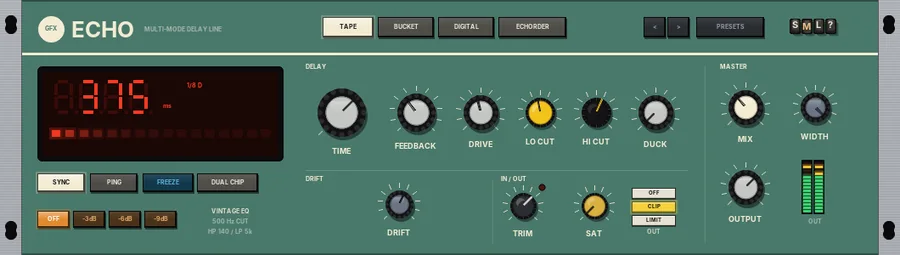
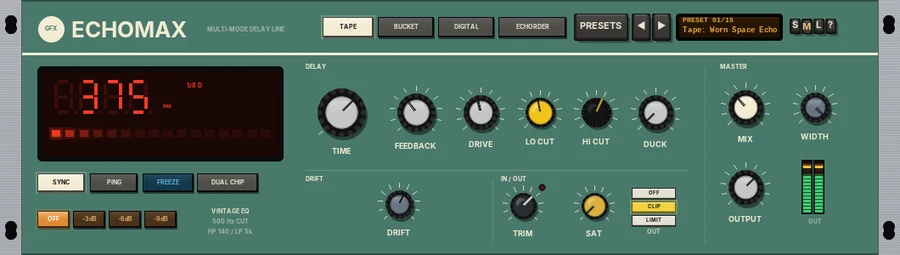
Remove G Piano and Palette; TransEQ and Echomax panel images updated (count 90)
Claude-Session: https://claude.ai/code/session_01Ax5XYCMR9hcQaUir82PTWy

Changed region(s): [[0.6222, 0.0275, 0.8711, 0.1922], [0.1244, 0.0824, 0.3111, 0.1647], [0.9022, 0.6588, 0.9333, 0.6863]]

diff --git a/glance/instruments.html b/glance/instruments.html
@@ -29,5 +29,5 @@ footer{border-top:1px solid var(--line);margin-top:40px;padding:24px 0 40px;colo
 </style></head><body>
 <header class="top"><div class="wrap"><span class="badge">GFX</span><a class="home" href="../index.html">GFX</a>
 <nav><a href="index.html">At a glance</a><a href="../manual/index.html">Manuals</a><a href="../index.html#range">The range</a><a href="../index.html#install">Install</a></nav></div></header>
-<main class="wrap"><h1>Instruments at a glance</h1><p class="lead">Synths, organs, pianos and string machines. Every sound is synthesised - nothing to load. Click a plug-in for its manual or panel.</p><div class="cats"><a href="instruments.html" class=on>Instruments</a><a href="drum-machines.html">Drum machines</a><a href="amps.html">Amps &amp; drive</a><a href="dynamics.html">Dynamics</a><a href="eq.html">EQ &amp; filters</a><a href="modulation.html">Modulation &amp; space</a><a href="mastering.html">Mastering</a><a href="summing.html">Summing</a></div><table class="tbl"><thead><tr><th>Plug-in</th><th>In the spirit of</th><th>Main features</th><th>Best for</th></tr></thead><tbody><tr><td class="n"><a href="../img/gfx-g-lab80.webp"><img src="../img/gfx-g-lab80.webp" alt="G Lab80" loading="lazy"><b>G Lab80</b><span>Panel</span></a></td><td>Late-80s digital workstation</td><td><ul><li>43 sounds: FM pianos, clav, organs, strings, brass, pads</li><li>Macro controls per sound</li><li>Built-in reverb and chorus</li></ul></td><td>Quick, characterful keys and pads</td></tr><tr><td class="n"><a href="../img/gfx-g-lead-8.webp"><img src="../img/gfx-g-lead-8.webp" alt="G Lead 8" loading="lazy"><b>G Lead 8</b><span>Panel</span></a></td><td>80s analogue polysynth</td><td><ul><li>2 oscillators per voice, 24 dB ladder filter</li><li>Filter and amp envelopes, LFO</li><li>Built-in arpeggiator</li></ul></td><td>Leads, chords and arpeggios</td></tr><tr><td class="n"><a href="../img/gfx-g-bass-1x.webp"><img src="../img/gfx-g-bass-1x.webp" alt="G Bass 1X" loading="lazy"><b>G Bass 1X</b><span>Panel</span></a></td><td>Classic monosynth basses</td><td><ul><li>Saw / pulse with PWM, sub oscillator, unison</li><li>Ladder, acid and 12 dB filters</li><li>Accent and glide</li></ul></td><td>Bass lines from warm to acid</td></tr><tr><td class="n"><a href="../img/gfx-g-cosmos.webp"><img src="../img/gfx-g-cosmos.webp" alt="G Cosmos" loading="lazy"><b>G Cosmos</b><span>Panel</span></a></td><td>80s eight-voice polys</td><td><ul><li>DCO with a detuned shimmer layer</li><li>24 dB filter with its own envelope</li><li>Bucket-brigade chorus, ambient delay</li></ul></td><td>Lush pads and strings</td></tr><tr><td class="n"><a href="../img/gfx-g-glow.webp"><img src="../img/gfx-g-glow.webp" alt="G Glow" loading="lazy"><b>G Glow</b><span>Panel</span></a></td><td>Early-80s micro-computer additive synths</td><td><ul><li>Draw 16 / 32 / 64 harmonic partials per path</li><li>Two paths, clean or vintage 8-bit</li><li>Cross-modulation, LFOs, dual delay</li></ul></td><td>Glassy digital tones and bells</td></tr><tr><td class="n"><a href="../img/gfx-g-chip.webp"><img src="../img/gfx-g-chip.webp" alt="G Chip 48" loading="lazy"><b>G Chip 48</b><span>Panel</span></a></td><td>8-bit home computer and console sound chips</td><td><ul><li>Five chips: beeper, AY, PSG, FM, console pulse / triangle</li><li>41 patches</li><li>Tracker-style arps</li></ul></td><td>Chiptune and retro game sounds</td></tr><tr><td class="n"><a href="../img/gfx-g-voce-90.webp"><img src="../img/gfx-g-voce-90.webp" alt="G Voce 90" loading="lazy"><b>G Voce 90</b><span>Panel</span></a></td><td>90s half-rack electric piano modules</td><td><ul><li>Tine, reed and sticky-reed pianos, clav, buzzy keyboard</li><li>Drive, tremolo, chorus</li><li>Auto-wah</li></ul></td><td>Electric pianos with movement</td></tr><tr><td class="n"><a href="../img/gfx-g-ensemble.webp"><img src="../img/gfx-g-ensemble.webp" alt="G Ensemble" loading="lazy"><b>G Ensemble</b><span>Panel</span></a></td><td>70s divide-down string machines</td><td><ul><li>Fully polyphonic</li><li>Four registers</li><li>Three-phase ensemble</li></ul></td><td>Classic string-machine beds</td></tr><tr><td class="n"><a href="../img/gfx-g-tonewheel.webp"><img src="../img/gfx-g-tonewheel.webp" alt="G Tonewheel" loading="lazy"><b>G Tonewheel</b><span>Panel</span></a></td><td>Tonewheel drawbar organs</td><td><ul><li>91 tonewheels, nine drawbars</li><li>Percussion, key click</li><li>Scanner vibrato / chorus</li></ul></td><td>Organ parts (pair with Rotary)</td></tr><tr><td class="n"><a href="../img/gfx-g-arpeggiator.webp"><img src="../img/gfx-g-arpeggiator.webp" alt="G Arp" loading="lazy"><b>G Arp</b><span>Panel</span></a></td><td>Hardware arpeggiators and step sequencers</td><td><ul><li>Step row with accents and ties</li><li>Tempo-locked or free-running</li><li>FEEL for human variation</li></ul></td><td>Driving any synth with arpeggios</td></tr><tr><td class="n"><a href="../img/gfx-g-harbour-keys.webp"><img src="../img/gfx-g-harbour-keys.webp" alt="G Harbour Keys" loading="lazy"><b>G Harbour Keys</b><span>Panel</span></a></td><td>Early-90s ROM pianos</td><td><ul><li>Physical-model piano core</li><li>FM bell layer</li><li>ROM grit, tape, mod rack, space</li></ul></td><td>House and 90s pop pianos</td></tr><tr><td class="n"><a href="../img/gfx-g-m1k.webp"><img src="../img/gfx-g-m1k.webp" alt="G M1K" loading="lazy"><b>G M1K</b><span>Panel</span></a></td><td>Late-80s matrix-modulation rack synths</td><td><ul><li>Six voices, two DCOs, 24 dB filter</li><li>Patch browser and full editor</li><li>Mod Rack in every patch</li></ul></td><td>Analogue pads, basses and brass</td></tr><tr><td class="n"><a href="../img/gfx-g-mallets.webp"><img src="../img/gfx-g-mallets.webp" alt="G Mallets" loading="lazy"><b>G Mallets</b><span>Panel</span></a></td><td>Mallet instruments</td><td><ul><li>Nine models by modal synthesis</li><li>Mallet hardness and resonator</li><li>Filter and amp envelopes</li></ul></td><td>Marimba, vibes and bells</td></tr><tr><td class="n"><a href="../img/gfx-g-piano.webp"><img src="../img/gfx-g-piano.webp" alt="G Piano" loading="lazy"><b>G Piano</b><span>Panel</span></a></td><td>Acoustic grand and upright pianos</td><td><ul><li>Physical hammer-and-string model</li><li>Grand or upright</li><li>Soft pedal</li></ul></td><td>Expressive piano with no samples</td></tr><tr><td class="n"><a href="../img/gfx-g-pocket-70.webp"><img src="../img/gfx-g-pocket-70.webp" alt="G Pocket 70" loading="lazy"><b>G Pocket 70</b><span>Panel</span></a></td><td>Late-90s sound modules</td><td><ul><li>90 patches in ten groups</li><li>Mod Rack and reverb per patch</li><li>Filter and amp ADSR edit</li></ul></td><td>Quick sounds while writing</td></tr><tr><td class="n"><a href="../img/gfx-g-rainbow.webp"><img src="../img/gfx-g-rainbow.webp" alt="G Rainbow" loading="lazy"><b>G Rainbow</b><span>Panel</span></a></td><td>60s modified-organ and tape-loop drones</td><td><ul><li>Two ranks at modal intervals</li><li>Ladder filter</li><li>Time-lag tape-loop delay</li></ul></td><td>Drones and minimalist loops</td></tr><tr><td class="n"><a href="../img/gfx-palette.webp"><img src="../img/gfx-palette.webp" alt="Palette" loading="lazy"><b>Palette</b><span>Panel</span></a></td><td>Workstation sound sets</td><td><ul><li>FM e-piano, clavinet, glock</li><li>Synth and warm pads</li><li>All synthesized</li></ul></td><td>Sketching parts</td></tr></tbody></table></main>
+<main class="wrap"><h1>Instruments at a glance</h1><p class="lead">Synths, organs, pianos and string machines. Every sound is synthesised - nothing to load. Click a plug-in for its manual or panel.</p><div class="cats"><a href="instruments.html" class=on>Instruments</a><a href="drum-machines.html">Drum machines</a><a href="amps.html">Amps &amp; drive</a><a href="dynamics.html">Dynamics</a><a href="eq.html">EQ &amp; filters</a><a href="modulation.html">Modulation &amp; space</a><a href="mastering.html">Mastering</a><a href="summing.html">Summing</a></div><table class="tbl"><thead><tr><th>Plug-in</th><th>In the spirit of</th><th>Main features</th><th>Best for</th></tr></thead><tbody><tr><td class="n"><a href="../img/gfx-g-lab80.webp"><img src="../img/gfx-g-lab80.webp" alt="G Lab80" loading="lazy"><b>G Lab80</b><span>Panel</span></a></td><td>Late-80s digital workstation</td><td><ul><li>43 sounds: FM pianos, clav, organs, strings, brass, pads</li><li>Macro controls per sound</li><li>Built-in reverb and chorus</li></ul></td><td>Quick, characterful keys and pads</td></tr><tr><td class="n"><a href="../img/gfx-g-lead-8.webp"><img src="../img/gfx-g-lead-8.webp" alt="G Lead 8" loading="lazy"><b>G Lead 8</b><span>Panel</span></a></td><td>80s analogue polysynth</td><td><ul><li>2 oscillators per voice, 24 dB ladder filter</li><li>Filter and amp envelopes, LFO</li><li>Built-in arpeggiator</li></ul></td><td>Leads, chords and arpeggios</td></tr><tr><td class="n"><a href="../img/gfx-g-bass-1x.webp"><img src="../img/gfx-g-bass-1x.webp" alt="G Bass 1X" loading="lazy"><b>G Bass 1X</b><span>Panel</span></a></td><td>Classic monosynth basses</td><td><ul><li>Saw / pulse with PWM, sub oscillator, unison</li><li>Ladder, acid and 12 dB filters</li><li>Accent and glide</li></ul></td><td>Bass lines from warm to acid</td></tr><tr><td class="n"><a href="../img/gfx-g-cosmos.webp"><img src="../img/gfx-g-cosmos.webp" alt="G Cosmos" loading="lazy"><b>G Cosmos</b><span>Panel</span></a></td><td>80s eight-voice polys</td><td><ul><li>DCO with a detuned shimmer layer</li><li>24 dB filter with its own envelope</li><li>Bucket-brigade chorus, ambient delay</li></ul></td><td>Lush pads and strings</td></tr><tr><td class="n"><a href="../img/gfx-g-glow.webp"><img src="../img/gfx-g-glow.webp" alt="G Glow" loading="lazy"><b>G Glow</b><span>Panel</span></a></td><td>Early-80s micro-computer additive synths</td><td><ul><li>Draw 16 / 32 / 64 harmonic partials per path</li><li>Two paths, clean or vintage 8-bit</li><li>Cross-modulation, LFOs, dual delay</li></ul></td><td>Glassy digital tones and bells</td></tr><tr><td class="n"><a href="../img/gfx-g-chip.webp"><img src="../img/gfx-g-chip.webp" alt="G Chip 48" loading="lazy"><b>G Chip 48</b><span>Panel</span></a></td><td>8-bit home computer and console sound chips</td><td><ul><li>Five chips: beeper, AY, PSG, FM, console pulse / triangle</li><li>41 patches</li><li>Tracker-style arps</li></ul></td><td>Chiptune and retro game sounds</td></tr><tr><td class="n"><a href="../img/gfx-g-voce-90.webp"><img src="../img/gfx-g-voce-90.webp" alt="G Voce 90" loading="lazy"><b>G Voce 90</b><span>Panel</span></a></td><td>90s half-rack electric piano modules</td><td><ul><li>Tine, reed and sticky-reed pianos, clav, buzzy keyboard</li><li>Drive, tremolo, chorus</li><li>Auto-wah</li></ul></td><td>Electric pianos with movement</td></tr><tr><td class="n"><a href="../img/gfx-g-ensemble.webp"><img src="../img/gfx-g-ensemble.webp" alt="G Ensemble" loading="lazy"><b>G Ensemble</b><span>Panel</span></a></td><td>70s divide-down string machines</td><td><ul><li>Fully polyphonic</li><li>Four registers</li><li>Three-phase ensemble</li></ul></td><td>Classic string-machine beds</td></tr><tr><td class="n"><a href="../img/gfx-g-tonewheel.webp"><img src="../img/gfx-g-tonewheel.webp" alt="G Tonewheel" loading="lazy"><b>G Tonewheel</b><span>Panel</span></a></td><td>Tonewheel drawbar organs</td><td><ul><li>91 tonewheels, nine drawbars</li><li>Percussion, key click</li><li>Scanner vibrato / chorus</li></ul></td><td>Organ parts (pair with Rotary)</td></tr><tr><td class="n"><a href="../img/gfx-g-arpeggiator.webp"><img src="../img/gfx-g-arpeggiator.webp" alt="G Arp" loading="lazy"><b>G Arp</b><span>Panel</span></a></td><td>Hardware arpeggiators and step sequencers</td><td><ul><li>Step row with accents and ties</li><li>Tempo-locked or free-running</li><li>FEEL for human variation</li></ul></td><td>Driving any synth with arpeggios</td></tr><tr><td class="n"><a href="../img/gfx-g-harbour-keys.webp"><img src="../img/gfx-g-harbour-keys.webp" alt="G Harbour Keys" loading="lazy"><b>G Harbour Keys</b><span>Panel</span></a></td><td>Early-90s ROM pianos</td><td><ul><li>Physical-model piano core</li><li>FM bell layer</li><li>ROM grit, tape, mod rack, space</li></ul></td><td>House and 90s pop pianos</td></tr><tr><td class="n"><a href="../img/gfx-g-m1k.webp"><img src="../img/gfx-g-m1k.webp" alt="G M1K" loading="lazy"><b>G M1K</b><span>Panel</span></a></td><td>Late-80s matrix-modulation rack synths</td><td><ul><li>Six voices, two DCOs, 24 dB filter</li><li>Patch browser and full editor</li><li>Mod Rack in every patch</li></ul></td><td>Analogue pads, basses and brass</td></tr><tr><td class="n"><a href="../img/gfx-g-mallets.webp"><img src="../img/gfx-g-mallets.webp" alt="G Mallets" loading="lazy"><b>G Mallets</b><span>Panel</span></a></td><td>Mallet instruments</td><td><ul><li>Nine models by modal synthesis</li><li>Mallet hardness and resonator</li><li>Filter and amp envelopes</li></ul></td><td>Marimba, vibes and bells</td></tr><tr><td class="n"><a href="../img/gfx-g-pocket-70.webp"><img src="../img/gfx-g-pocket-70.webp" alt="G Pocket 70" loading="lazy"><b>G Pocket 70</b><span>Panel</span></a></td><td>Late-90s sound modules</td><td><ul><li>90 patches in ten groups</li><li>Mod Rack and reverb per patch</li><li>Filter and amp ADSR edit</li></ul></td><td>Quick sounds while writing</td></tr><tr><td class="n"><a href="../img/gfx-g-rainbow.webp"><img src="../img/gfx-g-rainbow.webp" alt="G Rainbow" loading="lazy"><b>G Rainbow</b><span>Panel</span></a></td><td>60s modified-organ and tape-loop drones</td><td><ul><li>Two ranks at modal intervals</li><li>Ladder filter</li><li>Time-lag tape-loop delay</li></ul></td><td>Drones and minimalist loops</td></tr></tbody></table></main>
 <footer><div class="wrap">GFX (Garden FX) - free JSFX plug-ins for REAPER.</div></footer></body></html>

diff --git a/index.html b/index.html
@@ -167,7 +167,7 @@
       If you would like to help keep new plug-ins coming, a small donation on
       <a href="https://ko-fi.com/jgwizrad" target="_blank" rel="noopener">Ko-fi</a> goes a long way.</p>
     <div class="facts">
-      <div><b class="js-count">92</b>plug-ins</div>
+      <div><b class="js-count">90</b>plug-ins</div>
       <div><b>0</b>samples &mdash; all synthesized</div>
       <div><b>S / M / L</b>resizable panels</div>
       <div><b>1</b>shared look and output stage</div>
@@ -249,10 +249,8 @@ const P = [
   ["G Harbour Keys", "gfx-g-harbour-keys", "inst", "An early-90s rompler piano built on the G Piano physical model, with an FM bell layer on every key, ROM-style sample-rate and bit reduction, a tape deck, a mod rack and an 80s space.", ["physical-model core", "FM bell", "ROM grit"]],
   ["G M1K", "gfx-g-m1k", "inst", "A six-voice analogue rack synth in the spirit of the late-80s matrix-modulation modules: two DCOs, a 24 dB filter, a patch browser and full editor, and the Mod Rack built into every patch. Black or cream faceplate.", ["6 voices", "patch browser", "Mod Rack per patch"]],
   ["G Mallets", "gfx-g-mallets", "inst", "Tuned percussion by modal synthesis: marimba, vibes, glock, xylophone, celesta, kalimba, steel pan, tubular bells and electric grand, with mallet hardness, a resonator and its own filter and amp envelopes.", ["9 models", "modal synthesis", "filter + amp env"]],
-  ["G Piano", "gfx-g-piano", "inst", "A physically modelled acoustic piano: a felt hammer simulated against waveguide strings, soundboard and sympathetic coupling, grand or upright. No samples.", ["physical model", "grand / upright", "soft pedal"]],
   ["G Pocket 70", "gfx-g-pocket-70", "inst", "A late-90s sound module, one sound at a time: 90 synthesized patches in ten groups, from pianos and pads to basses and a GM drum kit, each with its own Mod Rack and reverb, and filter and amp envelopes to edit.", ["90 patches", "Mod Rack + reverb", "ADSR edit"]],
   ["G Rainbow", "gfx-g-rainbow", "inst", "A drone organ after the 60s modified-organ and tape-loop pieces: two oscillator ranks per voice at modal intervals, a ladder filter and a two-deck time-lag tape-loop delay.", ["8 voices", "2 ranks", "time-lag delay"]],
-  ["Palette", "gfx-palette", "inst", "The sound palette for the GFX workstation: FM e-piano, clavinet, glock, synth and warm pads and more, all synthesized.", ["workstation sounds", "FM + physical", "pads"]],
   // drum machines
   ["G Pulse", "gfx-g-pulse", "drum", "A synthesis drum machine with eight voices and four character models for the whole kit (analogue, FM, physical modelling and digital), a 32-step sequencer with per-row lengths and a bus compressor.", ["4 models", "32 steps, polyrhythm", "8 patterns"]],
   ["G Deep 16", "gfx-g-deep", "drum", "A deep house drum machine: synthesized kick, snare, clap, hats and rim shot through a full drum-bus chain of compressor, EQ, saturation and reverb, with a 16-step sequencer and MIDI export.", ["6 voices", "bus FX chain", "MIDI export"]],
